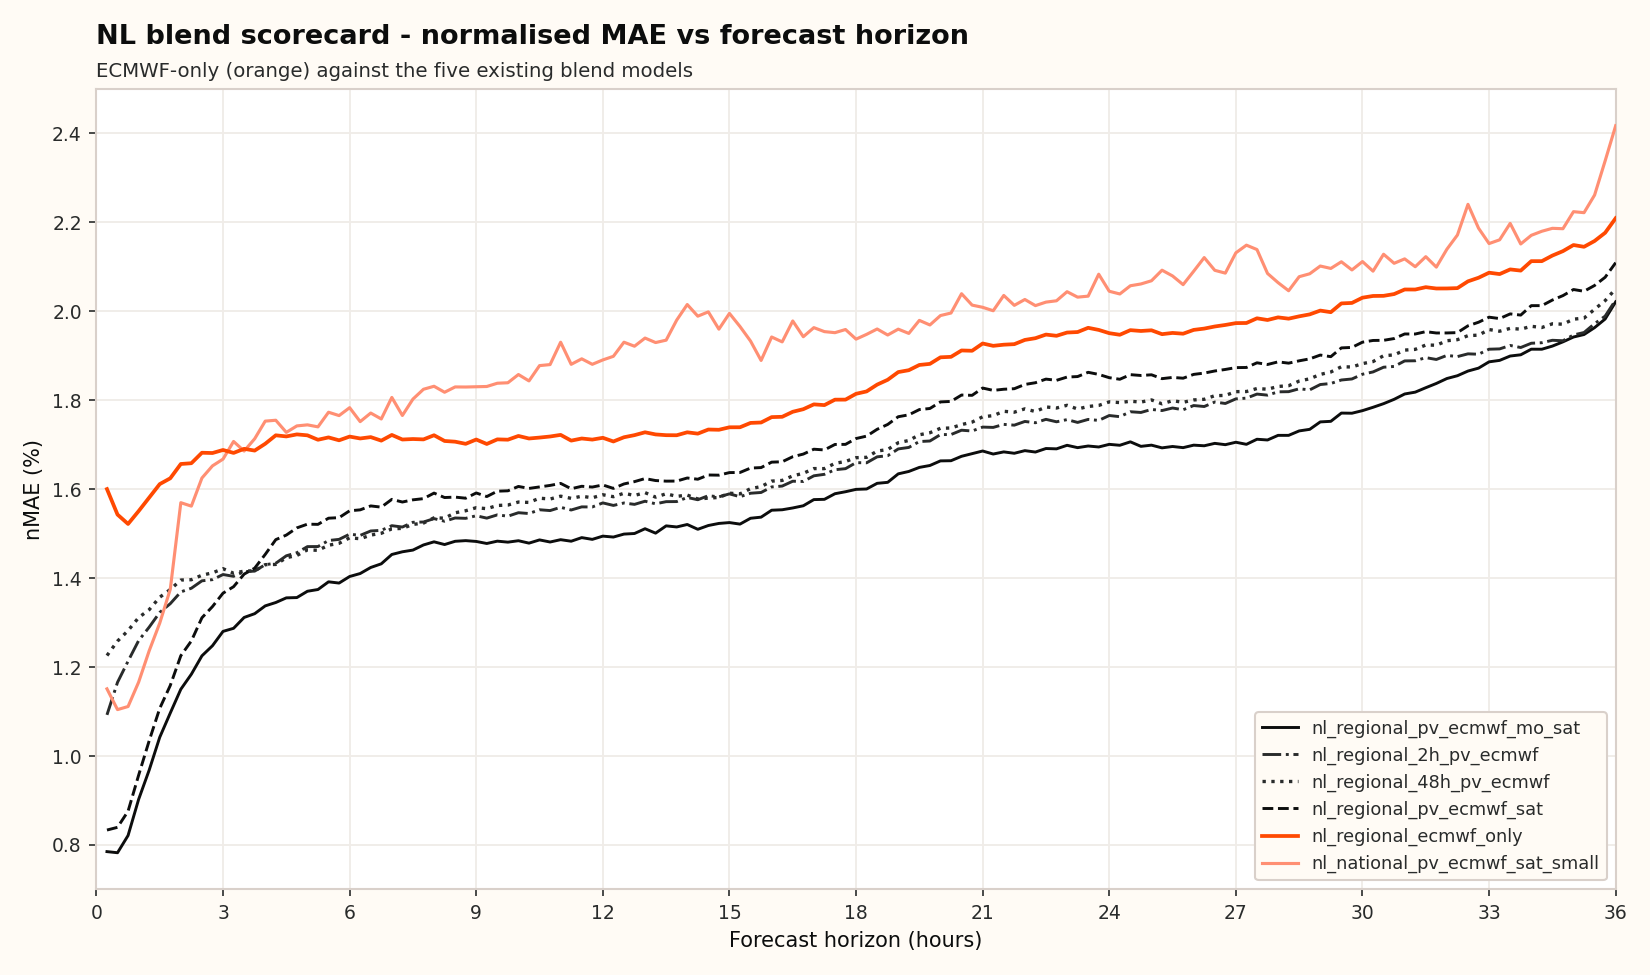
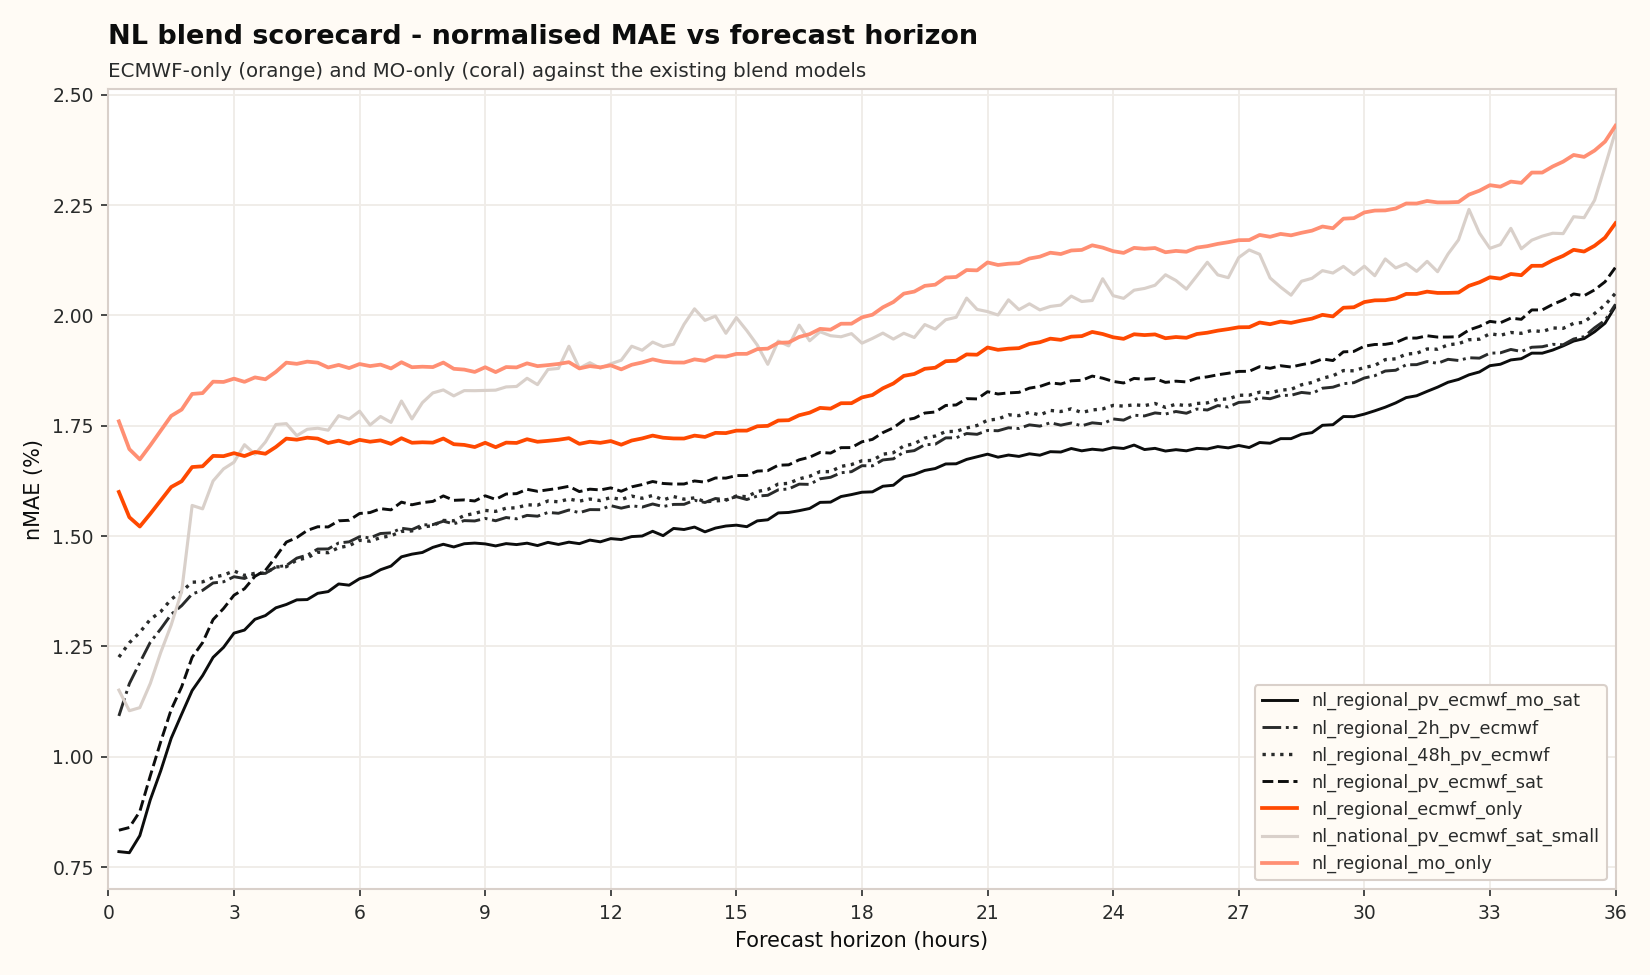
Add nl_regional_mo_only to NL blend (#234)

diff --git a/site_forecast_app/blend/README.md b/site_forecast_app/blend/README.md
@@ -74,10 +74,11 @@ All tunable parameters live in `config.yaml`:
 | `nl_regional_pv_ecmwf_sat` | Candidate — ECMWF + satellite |
 | `nl_national_pv_ecmwf_sat_small` | Candidate — national-scale small model |
 | `nl_regional_ecmwf_only` | Candidate — ECMWF only, no PV or satellite |
+| `nl_regional_mo_only` | Candidate — Met Office only, no PV or satellite |
 
 ## Scorecard
 
-nMAE values in `data/nl_backtest_nmae_comparison_updated.csv`. 
+nMAE values in `data/nl_backtest_nmae_comparison_updated.csv`.
 Scored on the 2024 validation set, national, p50.
 
 | Model | Mean nMAE | 1 h | 36 h |
@@ -85,8 +86,9 @@ Scored on the 2024 validation set, national, p50.
 | `nl_regional_pv_ecmwf_mo_sat` | 1.580% | 0.902% | 2.021% |
 | `nl_regional_2h_pv_ecmwf` | 1.660% | 1.259% | 2.025% |
 | `nl_regional_48h_pv_ecmwf` | 1.680% | 1.311% | 2.050% |
-| `nl_regional_ecmwf_only` | 1.690% | 1.460% | 2.075% |
 | `nl_regional_pv_ecmwf_sat` | 1.702% | 0.957% | 2.109% |
+| `nl_regional_ecmwf_only` | 1.851% | 1.551% | 2.209% |
+| `nl_regional_mo_only` | 2.036% | 1.706% | 2.430% |
 | `nl_national_pv_ecmwf_sat_small` | 1.937% | 1.166% | 2.417% |
 
 ![nMAE vs forecast horizon](data/nl_blend_nmae_vs_horizon_updated.png)
